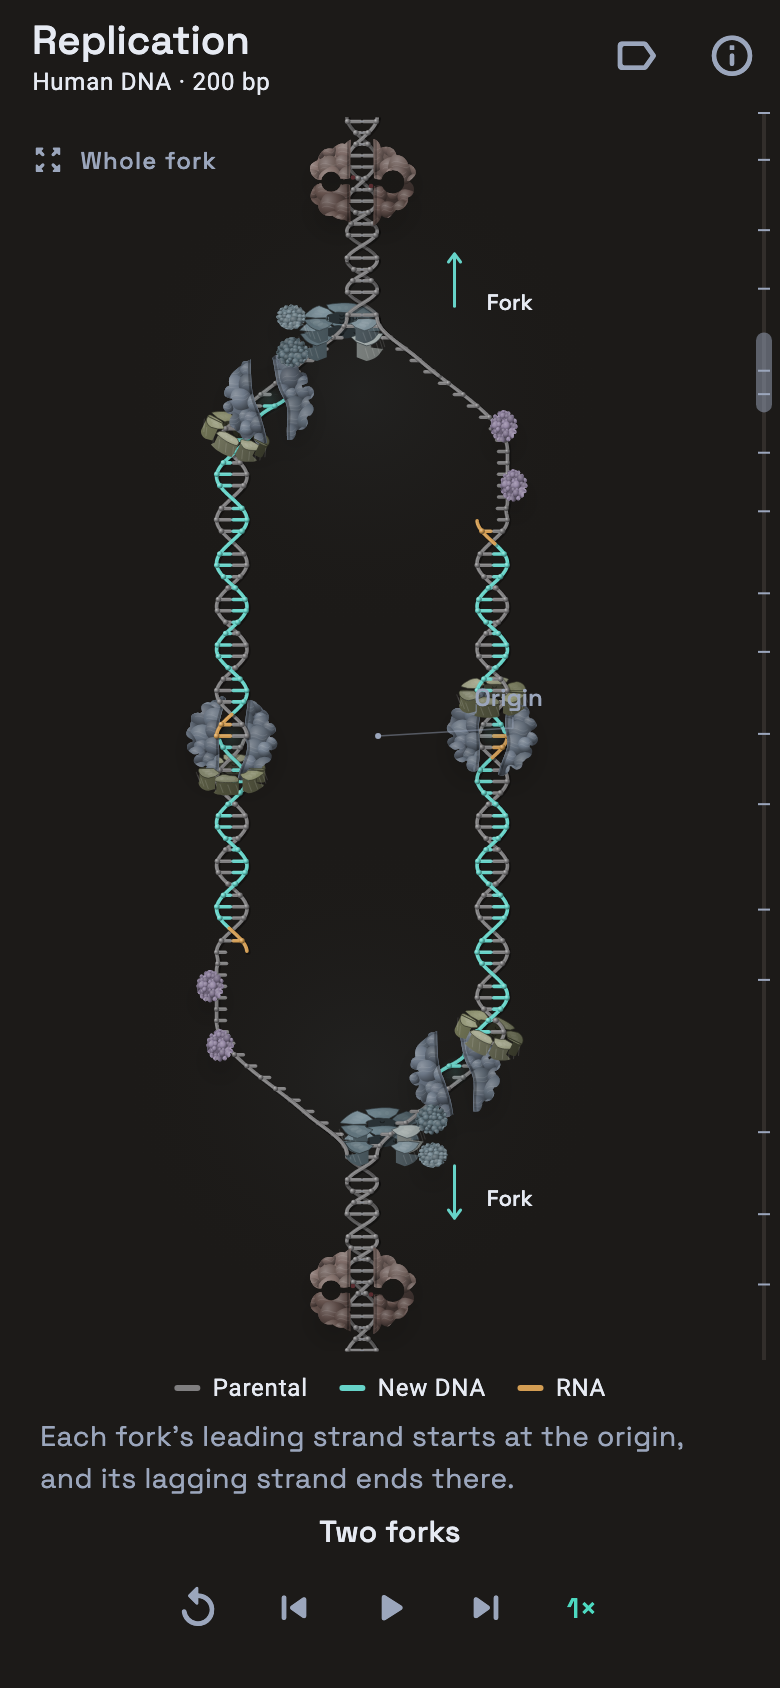
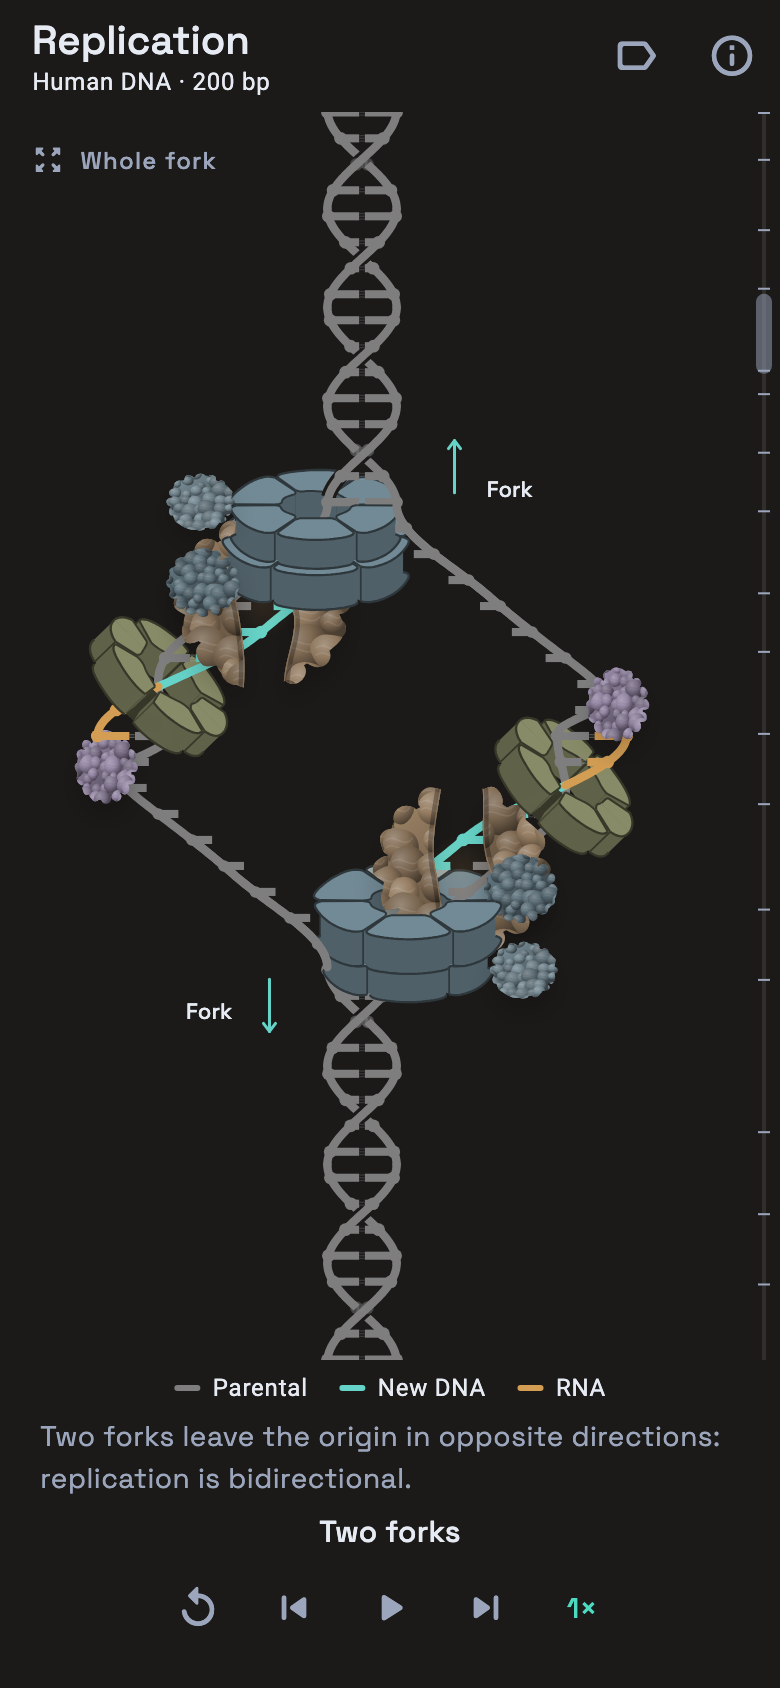
docs: replication's design says what is drawn flat and how labels land
The design, CLAUDE.md and the screenshot now say what is drawn:
- the DNA and the ring proteins are flat;
- the other proteins keep their lit, folded envelopes;
- hydrogen bonds bridge each pair;
- each machine's name carries what it is;
- a label's line lands on what it names and keeps clear of other words,
  lines and proteins.

The checks section adds replication_targets_test and the label test's new
rules.

diff --git a/docs/design/replication-fork.md b/docs/design/replication-fork.md
@@ -46,7 +46,8 @@ Each camera move takes the previous chapter's last 2.5 seconds, with smooth
 acceleration and deceleration. Initiation is seen whole (1.35× to 1.7×, then
 zoomed out to fit the bubble); the fork's close-ups run from 2.15× to 3×.
 Labels keep their size, name only the relevant structures, fade out as the
-camera starts to move and fade in as it arrives.
+camera starts to move and fade in as it arrives. In the close-ups each machine
+is named with what it is on a second, smaller line.
 
 These are views of concurrent processes. The tour does not imply that
 topoisomerase starts only after helicase or RPA. The final chapter shows the
@@ -91,8 +92,9 @@ the lagging template exits outside it. Pol ε remains close behind.
 [Jones et al., 2021, core human replisome, PDB 7PFO](https://www.rcsb.org/structure/7PFO)
 
 CMG's six ATPase sites hydrolyse ATP as it unwinds. The C-terminal tier lights
-them in turn, one sweep per eight nucleotides unwound, and the light follows
-the fork's speed: it rests before the origin fires and dims as the fork slows.
+them in turn, one sweep per eight nucleotides unwound, each subunit warming
+as its site fires, and the wave follows the fork's speed: it rests before the
+origin fires and fades as the fork slows.
 
 ### Single-strand protection
 
@@ -113,8 +115,8 @@ synthesis proceeds away from it. Both add to a growing 3′ end.
 [human primase–replisome structure, PDB 8B9D](https://www.rcsb.org/structure/8B9D)
 
 PCNA is drawn after its structure: a homotrimer ring of two-domain subunits,
-one tint per subunit, the helices lining its hole seen through it, held at a
-tilt around the new duplex behind each polymerase. It turns once per helical
+told apart by its seams, held at a tilt around the new duplex behind each
+polymerase. It turns once per helical
 turn as it slides. [Gulbis et al., 1996, PDB 1AXC](https://www.rcsb.org/structure/1AXC)
 
 The model chooses 10 RNA nucleotides and 20 Pol α DNA nucleotides per primer.
@@ -164,27 +166,39 @@ requires a later fragment outside this example.
 
 ## Visual language
 
-- The same warm dark ground and lit molecular material as Protein Analysis →
-  Ribosome. Colours come from theme tokens (`ReplicationInks`).
+- The same warm dark ground as Protein Analysis → Ribosome. The DNA and the
+  ring proteins are drawn flat, with no gradient, highlight, shadow or
+  texture. The other proteins keep the lit, folded material of the Ribosome
+  cutaway. Colours come from theme tokens (`ReplicationInks`).
 - One colour per strand: grey parental, teal new DNA, amber RNA; each strand's
   bases and phosphate beads wear its colour. The three stay at least 20 ΔE00
   apart for normal vision and through protan, deutan and tritan simulation.
-  Proteins are muted, one hue family each; multi-chain proteins (PCNA, MCM2–7,
-  topo II, ORC with Cdc6, RFC) show their chains as tints of that hue.
+  Proteins are muted, one hue family each. A ring is one colour, its chains
+  told apart by its seams; Cdc6 is a lighter tint of ORC. Topo II shows its
+  two chains as tints of its hue, and Cdc45 and GINS are tints of the CMG's.
 - Rings (PCNA, MCM2–7, RFC, ORC with Cdc6) are drawn in two halves, the far
   half before the DNA and the near half after it, so the DNA threads the hole.
   They are closed and solid: each subunit a rounded block with square ends,
-  over a recessed core that floors the seams between them. Walls are lit as a
-  cylinder from the upper left, with a lit top edge and a darker base; the
-  strand inside is seen entering the hole and leaving below. An open ring
-  (RFC, PCNA and MCM2–7 as they are loaded) is its closed layout pressed into
-  the rest of the circle, so the gap opens at one interface and no subunit
-  overlaps another. Other proteins are folded envelopes with cut faces
-  exposing the DNA inside.
-- At the origin, the lines between paired bases count their hydrogen bonds.
+  over a recessed core that floors the seams between them. The top face is
+  the ring's colour, the walls and square ends one darker step
+  (`ReplicationInks.sideOf`), and the edges and the core in the seams a
+  further step (`edgeOf`). The strand inside is seen entering the hole and
+  leaving below. An open ring (RFC, PCNA and MCM2–7 as they are loaded) is its
+  closed layout pressed into the rest of the circle, so the gap opens at one
+  interface and no subunit overlaps another. Other proteins are lit, folded
+  envelopes with cut faces exposing the DNA inside.
+- The two bases of a pair end square at a gap, bridged by the pair's hydrogen
+  bonds: two thin lines for A·T, three for G·C. They come with the close-ups,
+  form as a new base docks and break as the fork reaches the pair. At the
+  origin the gap widens, so they are easy to count.
+- Both strands of the parental helix are one colour. Where the front strand
+  crosses the back one, a band of the ground shows the crossing.
 - Words never lie on the DNA, a protein or other words. A label's line
-  leaves it on the side facing what it names, so it never crosses the
-  label. Two names that share a place take turns rather than overlap.
+  leaves the words on the side facing what it names and lands on it, riding
+  with it as it slides in and out. It never crosses other words or another
+  line, nor passes over a protein other than the one what it names lies in.
+  Direction arrows lie on nothing. Two names that share a place take turns
+  rather than overlap.
 - Labels can be hidden. The information sheet explains the model and links
   primary structures and experimental research.
 
@@ -207,11 +221,11 @@ animation cannot flicker:
 - The chapter clock, fork travel and synthesis are monotone cubics, so speeds
   never jump at a chapter boundary or a polymerase handover.
 - A ring looks the same from every side: a subunit passing from its back
-  half to its front keeps its shading, its edges and its details, which are
-  fixed to the subunit and fade with the way they face. Rims are sampled at
-  fixed shares of each subunit; parts are painted back to front, and stacked
-  rings lowest first. A ring is see-through only for the first moments of
-  its slide in and the last of its slide out.
+  half to its front keeps its colours and its edges. The corner at a square
+  end fades in as the end turns to face the viewer, drawn alike in both
+  halves. Rims are sampled at fixed shares of each subunit; parts are painted
+  back to front, and stacked rings lowest first. A ring is see-through only
+  for the first moments of its slide in and the last of its slide out.
 
 `ReplicationStaging` stages every element as keyed, continuous values, and
 `replication_smoothness_test` walks the whole tour at 60 fps and fails on any
@@ -251,9 +265,14 @@ Widget checks cover navigation, autoplay, pause, phase seeking, replay, reduced
 motion, lifecycle changes, the research sheet, the side scrubber and small or
 enlarged-text layouts. Camera checks cover working-site visibility, continuity,
 tracking and the whole-fork override. `replication_labels_test` stages the tour
-every quarter second on a tall and a narrow phone, measures each close-up label
-in the app's font, and fails if it lies on DNA, a protein, other words or off
-the frame.
+every quarter second on a tall and a narrow phone and measures each close-up
+label, name and note, in the app's font. It fails if a label lies on DNA, a
+protein, other words or off the frame; if its line crosses other words or
+another line, or passes over a protein other than the one what it names lies
+in; or if a direction arrow lies on a protein or the DNA.
+`replication_targets_test` draws the scene every half second with its labels
+off and what each label names in a marker colour, and fails if a line does
+not land on it.
 
 To capture the real screen at 390 and 320 logical pixels:
 

diff --git a/CLAUDE.md b/CLAUDE.md
@@ -200,9 +200,11 @@ draws a turned pass. Everything on screen is a continuous function of time:
 exact strand ends (`DaughterPiece`), staged as keyed values
 (`ReplicationStaging`), and `replication_smoothness_test` walks the tour at
 60 fps and fails on any jump, pop or kink. One colour per strand, from theme
-tokens (`ReplicationInks`): grey parental, teal new DNA, amber RNA. Rings
-(`replication_rings.dart`: PCNA, MCM2–7, RFC, ORC) are drawn in two halves
-round the DNA; topoisomerase II has its own drawing (`replication_topo.dart`).
+tokens (`ReplicationInks`): grey parental, teal new DNA, amber RNA. The DNA
+and the rings (`replication_rings.dart`: PCNA, MCM2–7, RFC, ORC) are drawn
+flat, the rings in two halves round the DNA; the other proteins are lit,
+folded envelopes, and topoisomerase II has its own (`replication_topo.dart`).
+A label's line must land on what it names (`replication_targets_test`).
 `docs/design/replication-fork.md` has the design and its sources.
 
 ## The lab (`LAB_ENABLED`)
